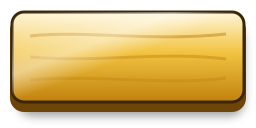
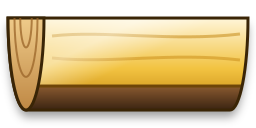
step 27: harder tokkas, and gutis drawn as split sticks with half-round ends
The owner found tokkas too easy - hardly anyone dies. Flick spread goes from 0.18 to 0.3:
simulated hit rates drop from about 88-91% to 78-81%, for people and computer players alike.

Each guti now looks like a stick split lengthwise, lying on the mat: round side up a shaded
half-log with its straight cut along the bottom, flat side up the gold face along the top
with the round underside below, and the half-round end grain showing at one end.
generate-assets.ts can now write just the files named on its command line.

diff --git a/apps/game/scripts/generate-assets.ts b/apps/game/scripts/generate-assets.ts
@@ -3,7 +3,8 @@
  * menu UI (background, buttons, panels, board frame, icons) as SVG rasterized to PNG
  * (via sharp), plus SFX synthesized directly to PCM WAV. No external art/audio - deterministic placeholder-quality
  * assets that exercise the real loading/fallback pipeline. Re-run any time with
- * `pnpm -F game exec tsx scripts/generate-assets.ts`.
+ * `pnpm -F game exec tsx scripts/generate-assets.ts`, naming files (guti-flat.png ...) to
+ * write only those.
  */
 import { mkdirSync, writeFileSync } from "node:fs";
 import { fileURLToPath } from "node:url";
@@ -12,20 +13,29 @@ import sharp from "sharp";
 const outDir = fileURLToPath(new URL("../public/assets", import.meta.url));
 mkdirSync(outDir, { recursive: true });
 
+/** File names given on the command line limit a run to those files; with none, all are written. */
+const only = new Set(process.argv.slice(2));
+
 async function writePng(name: string, svg: string): Promise<void> {
+  if (only.size > 0 && !only.has(name)) return;
   const buffer = await sharp(Buffer.from(svg)).png().toBuffer();
   writeFileSync(`${outDir}/${name}`, buffer);
   console.log(`wrote ${name}`);
 }
 
 function writeWav(name: string, samples: Float32Array): void {
+  if (only.size > 0 && !only.has(name)) return;
   writeFileSync(`${outDir}/${name}`, encodeWav(samples));
   console.log(`wrote ${name}`);
 }
 
 // ---------------------------------------------------------------------------
-// Guti sprites: a 2-inch round stick split lengthwise, seen from above - the flat cut
-// face on one side, the rounded back on the other. GutiView draws them rotated.
+// Guti sprites: a 2-inch round stick split lengthwise - half a cylinder, drawn a little
+// from the side like a log on the mat. Round side up it is a shaded half-cylinder with its
+// straight cut along the bottom; flat side up the gold cut face runs along the top with the
+// round underside below. Either way the left end shows the stick's half-round end grain:
+// straight along the bottom round side up, along the top flat side up. GutiView draws
+// them rotated.
 // ---------------------------------------------------------------------------
 
 interface GutiArt {
@@ -57,9 +67,36 @@ const ROUND_PALETTE: GutiArt = {
   outline: "#080502",
 };
 
-/** 256x128, the stick lying along x with room around it for a soft contact shadow. */
+/** Where the stick lies in its 256x128 sprite: the centres of its two ends, its long edges. */
+const STICK = { left: 26, right: 230, top: 18, bottom: 110, end: 18 };
+const STICK_HEIGHT = STICK.bottom - STICK.top;
+
+/**
+ * The outline: long edges straight, ends round like the ends of a log seen a little from the
+ * side - rounding over the top when the cut lies along the bottom, and under the bottom
+ * when it runs along the top.
+ */
+function stickOutline(cutAtBottom: boolean): string {
+  const { left, right, top, bottom, end } = STICK;
+  const h = STICK_HEIGHT;
+  return cutAtBottom
+    ? `M ${left - end} ${bottom} A ${end} ${h} 0 0 1 ${left} ${top} L ${right} ${top} A ${end} ${h} 0 0 1 ${right + end} ${bottom} Z`
+    : `M ${left - end} ${top} L ${right + end} ${top} A ${end} ${h} 0 0 1 ${right} ${bottom} L ${left} ${bottom} A ${end} ${h} 0 0 1 ${left - end} ${top} Z`;
+}
+
+/** The half-round end grain at the left end, with growth rings; `scale` < 1 draws a ring. */
+function endGrain(cutAtBottom: boolean, scale = 1): string {
+  const { left, top, bottom, end } = STICK;
+  const rx = end * scale;
+  const ry = STICK_HEIGHT * scale;
+  const ring = scale < 1;
+  return cutAtBottom
+    ? `M ${left - rx} ${bottom} A ${rx} ${ry} 0 0 1 ${left + rx} ${bottom}${ring ? "" : " Z"}`
+    : `M ${left + rx} ${top} A ${rx} ${ry} 0 0 1 ${left - rx} ${top}${ring ? "" : " Z"}`;
+}
+
 function gutiSvg(p: GutiArt): string {
-  const flat = p.face === "flat";
+  const roundUp = p.face === "round";
   return `<svg width="256" height="128" xmlns="http://www.w3.org/2000/svg">
     <defs>
       <filter id="shadow" x="-20%" y="-50%" width="140%" height="200%">
@@ -68,55 +105,66 @@ function gutiSvg(p: GutiArt): string {
       <filter id="glow" x="-20%" y="-100%" width="140%" height="300%">
         <feGaussianBlur stdDeviation="2"/>
       </filter>
+      <linearGradient id="grain" x1="0" y1="0" x2="0" y2="1">
+        <stop offset="0%" stop-color="#efcb8a"/>
+        <stop offset="100%" stop-color="#bf8844"/>
+      </linearGradient>
     </defs>
-    <rect x="18" y="26" width="226" height="90" rx="${flat ? 14 : 30}" fill="#000000" opacity="0.38" filter="url(#shadow)"/>
-    ${flat ? flatFace(p) : roundBack(p)}
+    <path d="${stickOutline(roundUp)}" transform="translate(0 7)" fill="#000000" opacity="0.38" filter="url(#shadow)"/>
+    ${roundUp ? roundBack(p) : flatFace(p)}
+    <path d="${endGrain(roundUp)}" fill="url(#grain)" stroke="${p.outline}" stroke-width="3"/>
+    <path d="${endGrain(roundUp, 0.64)}" fill="none" stroke="#9a6428" stroke-width="2" opacity="0.75"/>
+    <path d="${endGrain(roundUp, 0.32)}" fill="none" stroke="#9a6428" stroke-width="2" opacity="0.75"/>
   </svg>`;
 }
 
-/** Split side up: a flat gold face with grain along the split and the rim showing below it. */
+/** Flat side up: the gold cut face along the top, grained along the split, the round underside below it. */
 function flatFace(p: GutiArt): string {
+  const { bottom } = STICK;
   return `<defs>
       <linearGradient id="face" x1="0" y1="0" x2="0" y2="1">
         <stop offset="0%" stop-color="${p.light}"/>
-        <stop offset="45%" stop-color="${p.mid}"/>
+        <stop offset="55%" stop-color="${p.mid}"/>
         <stop offset="100%" stop-color="${p.edge}"/>
+      </linearGradient>
+      <linearGradient id="under" x1="0" y1="0" x2="0" y2="1">
+        <stop offset="0%" stop-color="#8a5a30"/>
+        <stop offset="100%" stop-color="#26160a"/>
       </linearGradient>
       <linearGradient id="sheen" x1="0" y1="0" x2="1" y2="1">
         <stop offset="0%" stop-color="#ffffff" stop-opacity="0"/>
         <stop offset="35%" stop-color="#ffffff" stop-opacity="0.45"/>
         <stop offset="50%" stop-color="#ffffff" stop-opacity="0"/>
       </linearGradient>
+      <clipPath id="body"><path d="${stickOutline(false)}"/></clipPath>
     </defs>
-    <rect x="10" y="16" width="236" height="96" rx="14" fill="${p.rim}"/>
-    <rect x="12" y="12" width="232" height="90" rx="12" fill="url(#face)" stroke="${p.outline}" stroke-width="3"/>
-    <path d="M30 36 C 84 30, 152 42, 226 34" fill="none" stroke="${p.edge}" stroke-width="3" opacity="0.5"/>
-    <path d="M30 57 C 98 63, 160 51, 226 59" fill="none" stroke="${p.edge}" stroke-width="3" opacity="0.45"/>
-    <path d="M30 80 C 92 74, 168 86, 226 78" fill="none" stroke="${p.edge}" stroke-width="3" opacity="0.4"/>
-    <rect x="12" y="12" width="232" height="90" rx="12" fill="url(#sheen)"/>`;
+    <path d="${stickOutline(false)}" fill="url(#face)"/>
+    <g clip-path="url(#body)">
+      <path d="M 52 36 C 104 30, 172 42, 240 34" fill="none" stroke="${p.edge}" stroke-width="3" opacity="0.5"/>
+      <path d="M 52 58 C 112 64, 170 52, 240 60" fill="none" stroke="${p.edge}" stroke-width="3" opacity="0.45"/>
+      <rect x="0" y="0" width="256" height="128" fill="url(#sheen)"/>
+      <rect x="0" y="${bottom - 24}" width="256" height="30" fill="url(#under)"/>
+      <path d="M 0 ${bottom - 24} L 256 ${bottom - 24}" stroke="${p.rim}" stroke-width="3"/>
+    </g>
+    <path d="${stickOutline(false)}" fill="none" stroke="${p.outline}" stroke-width="3"/>`;
 }
 
-/** Rounded back up: shaded across its width like a cylinder, with a long highlight. */
+/** Round side up: the lacquered back shaded like a cylinder, lit along its crown, the gold cut showing along its bottom edge. */
 function roundBack(p: GutiArt): string {
+  const { left, right, bottom, end } = STICK;
   return `<defs>
       <linearGradient id="back" x1="0" y1="0" x2="0" y2="1">
-        <stop offset="0%" stop-color="${p.edge}"/>
-        <stop offset="20%" stop-color="${p.light}"/>
-        <stop offset="45%" stop-color="${p.mid}"/>
-        <stop offset="85%" stop-color="${p.edge}"/>
-        <stop offset="100%" stop-color="${p.rim}"/>
-      </linearGradient>
-      <linearGradient id="ends" x1="0" y1="0" x2="1" y2="0">
-        <stop offset="0%" stop-color="#000000" stop-opacity="0.5"/>
-        <stop offset="10%" stop-color="#000000" stop-opacity="0"/>
-        <stop offset="90%" stop-color="#000000" stop-opacity="0"/>
-        <stop offset="100%" stop-color="#000000" stop-opacity="0.5"/>
+        <stop offset="0%" stop-color="#2a180b"/>
+        <stop offset="15%" stop-color="${p.light}"/>
+        <stop offset="38%" stop-color="#7a4d27"/>
+        <stop offset="78%" stop-color="${p.mid}"/>
+        <stop offset="100%" stop-color="${p.edge}"/>
       </linearGradient>
     </defs>
-    <rect x="12" y="12" width="232" height="96" rx="28" fill="url(#back)" stroke="${p.outline}" stroke-width="3"/>
-    <rect x="12" y="12" width="232" height="96" rx="28" fill="url(#ends)"/>
-    <rect x="44" y="26" width="168" height="14" rx="7" fill="#ffffff" opacity="0.35" filter="url(#glow)"/>
-    <rect x="60" y="29" width="136" height="6" rx="3" fill="#fff3dc" opacity="0.7"/>`;
+    <path d="${stickOutline(true)}" fill="url(#back)" stroke="${p.outline}" stroke-width="3"/>
+    <path d="M ${left + 34} 36 L ${right - 8} 36" stroke="#fff3dc" stroke-width="10" stroke-linecap="round" opacity="0.22" filter="url(#glow)"/>
+    <path d="M ${left + 44} 34 L ${right - 22} 34" stroke="#fff3dc" stroke-width="4" stroke-linecap="round" opacity="0.55"/>
+    <path d="M ${left - end + 4} ${bottom - 2} L ${right + end - 4} ${bottom - 2}" stroke="#e0a53a" stroke-width="3" opacity="0.9"/>`;
 }
 
 // ---------------------------------------------------------------------------

diff --git a/packages/game-core/src/config.ts b/packages/game-core/src/config.ts
@@ -29,7 +29,7 @@ export interface GameConfig {
   readonly maxFlickPower: number;
   /**
    * Flick spread: how far a full-power flick can veer off its aim, either side, in sideways
-   * px per px travelled (0.18 is about 10 degrees); a gentler flick veers proportionally
+   * px per px travelled (0.3 is about 17 degrees); a gentler flick veers proportionally
    * less. Without it a steady aim never misses, and one turn could run all the way to the pot.
    */
   readonly flickSpread: number;
@@ -49,6 +49,6 @@ export const DEFAULT_CONFIG: GameConfig = {
   dt: 1 / 60,
   restSpeed: 2,
   maxFlickPower: 700,
-  flickSpread: 0.18,
+  flickSpread: 0.3,
   maxSimSeconds: 5,
 };
